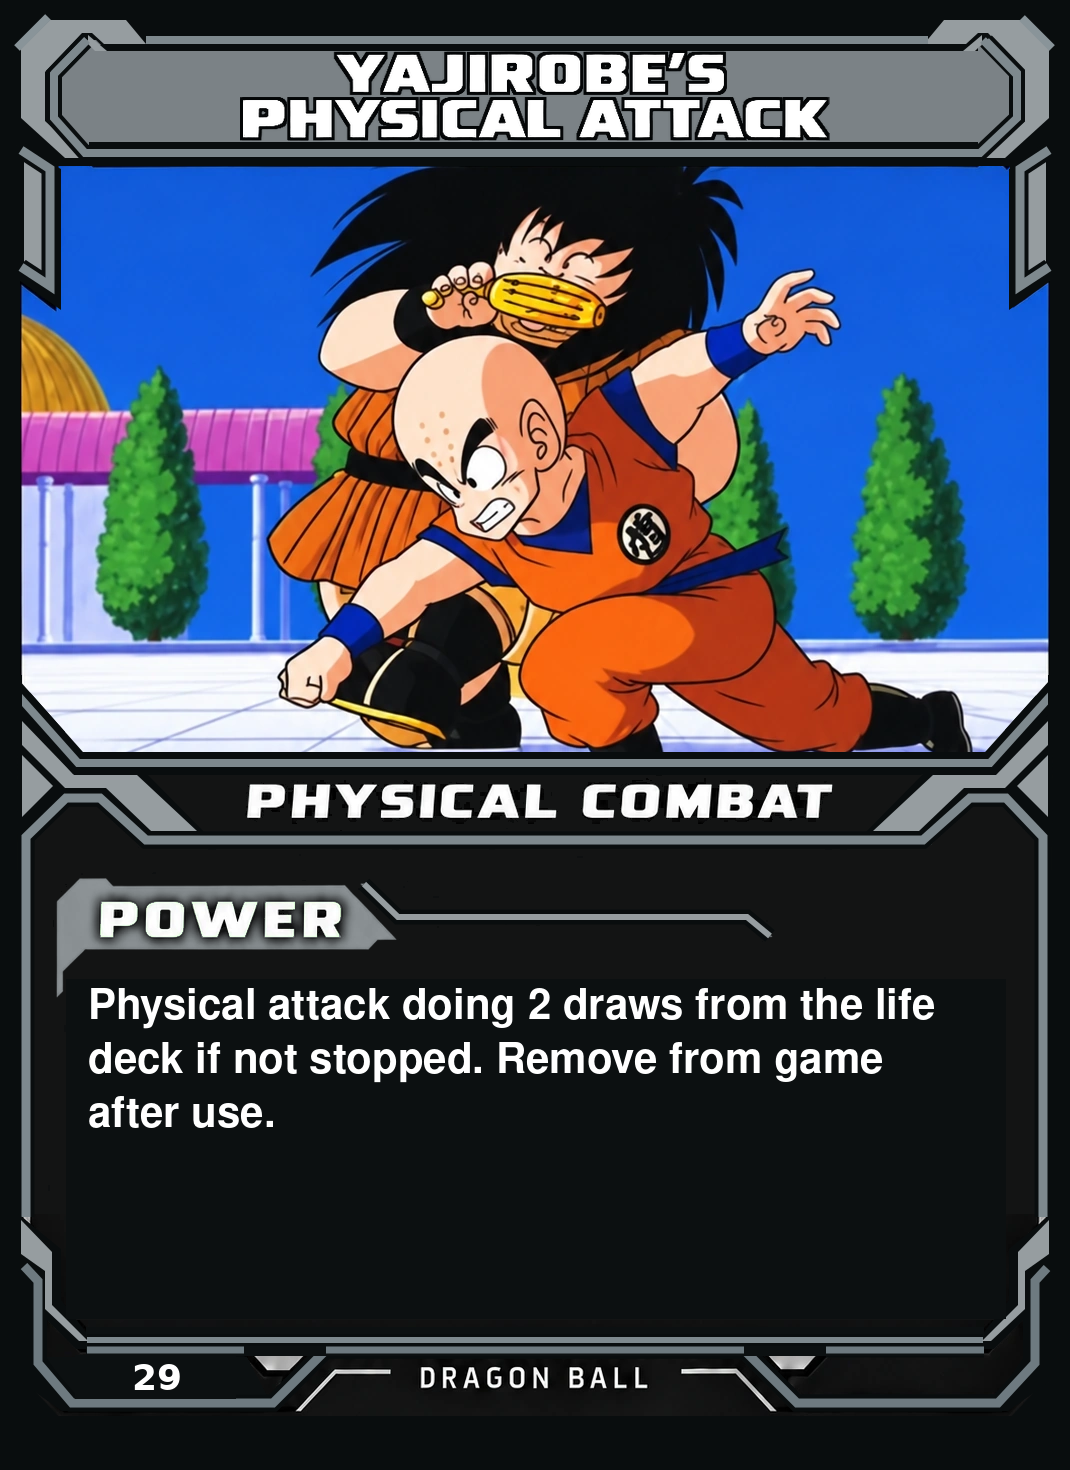
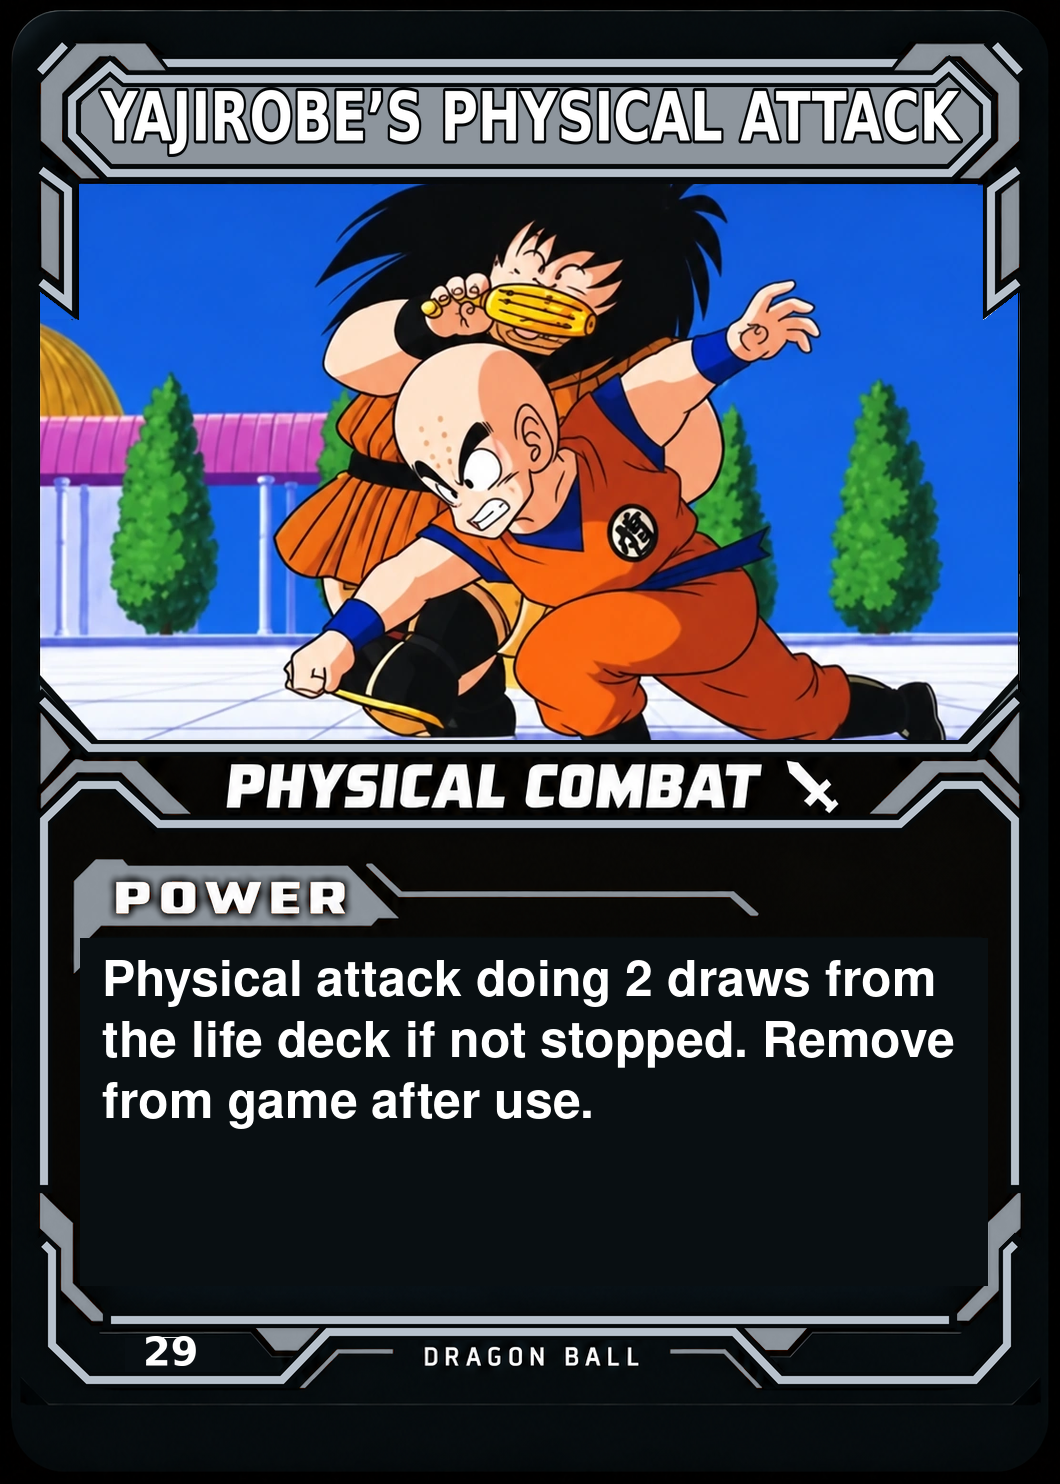
Publish approved judder-free design for Saiyan cards 21–30

diff --git a/public/cards/catalog.js b/public/cards/catalog.js
@@ -267,8 +267,10 @@ export const catalog = [
     "style": "Saiyan",
     "set": "Saiyan Saga",
     "status": "Ready",
-    "image": "/assets/cards/saiyan-021-saiyan-neck-hold.webp?v=f4d03f95da",
-    "source": "https://retrodbzccg.com/card-images/saiyan-saga-commons/"
+    "image": "/assets/cards/saiyan-021-saiyan-neck-hold.webp?v=18b919ae8d",
+    "source": "https://retrodbzccg.com/card-images/saiyan-saga-commons/",
+    "width": 1060,
+    "height": 1484
   },
   {
     "id": "saiyan-022-power-up",
@@ -278,8 +280,10 @@ export const catalog = [
     "style": "Freestyle",
     "set": "Saiyan Saga",
     "status": "Ready",
-    "image": "/assets/cards/saiyan-022-power-up.webp?v=969b06045f",
-    "source": "https://retrodbzccg.com/card-images/saiyan-saga-commons/"
+    "image": "/assets/cards/saiyan-022-power-up.webp?v=52e08a7c36",
+    "source": "https://retrodbzccg.com/card-images/saiyan-saga-commons/",
+    "width": 1060,
+    "height": 1484
   },
   {
     "id": "saiyan-023-burning-rage",
@@ -289,8 +293,10 @@ export const catalog = [
     "style": "Freestyle",
     "set": "Saiyan Saga",
     "status": "Ready",
-    "image": "/assets/cards/saiyan-023-burning-rage.webp?v=ce1ab0d779",
-    "source": "https://retrodbzccg.com/card-images/saiyan-saga-commons/"
+    "image": "/assets/cards/saiyan-023-burning-rage.webp?v=9ff6daa582",
+    "source": "https://retrodbzccg.com/card-images/saiyan-saga-commons/",
+    "width": 1060,
+    "height": 1484
   },
   {
     "id": "saiyan-024-gokus-surprise-attack",
@@ -300,8 +306,10 @@ export const catalog = [
     "style": "Freestyle",
     "set": "Saiyan Saga",
     "status": "Ready",
-    "image": "/assets/cards/saiyan-024-gokus-surprise-attack.webp?v=a47d97361b",
-    "source": "https://retrodbzccg.com/card-images/saiyan-saga-commons/"
+    "image": "/assets/cards/saiyan-024-gokus-surprise-attack.webp?v=77c410020f",
+    "source": "https://retrodbzccg.com/card-images/saiyan-saga-commons/",
+    "width": 1060,
+    "height": 1484
   },
   {
     "id": "saiyan-025-gokus-physical-attack",
@@ -311,8 +319,10 @@ export const catalog = [
     "style": "Freestyle",
     "set": "Saiyan Saga",
     "status": "Ready",
-    "image": "/assets/cards/saiyan-025-gokus-physical-attack.webp?v=9d23037840",
-    "source": "https://retrodbzccg.com/card-images/saiyan-saga-commons/"
+    "image": "/assets/cards/saiyan-025-gokus-physical-attack.webp?v=01f5532ec7",
+    "source": "https://retrodbzccg.com/card-images/saiyan-saga-commons/",
+    "width": 1060,
+    "height": 1484
   },
   {
     "id": "saiyan-026-gohans-physical-attack",
@@ -322,8 +332,10 @@ export const catalog = [
     "style": "Freestyle",
     "set": "Saiyan Saga",
     "status": "Ready",
-    "image": "/assets/cards/saiyan-026-gohans-physical-attack.webp?v=2580863f7e",
-    "source": "https://retrodbzccg.com/card-images/saiyan-saga-commons/"
+    "image": "/assets/cards/saiyan-026-gohans-physical-attack.webp?v=f2c8a9214a",
+    "source": "https://retrodbzccg.com/card-images/saiyan-saga-commons/",
+    "width": 1060,
+    "height": 1484
   },
   {
     "id": "saiyan-027-tiens-physical-attack",
@@ -333,8 +345,10 @@ export const catalog = [
     "style": "Freestyle",
     "set": "Saiyan Saga",
     "status": "Ready",
-    "image": "/assets/cards/saiyan-027-tiens-physical-attack.webp?v=ffac7b8040",
-    "source": "https://retrodbzccg.com/card-images/saiyan-saga-commons/"
+    "image": "/assets/cards/saiyan-027-tiens-physical-attack.webp?v=aec97c7b45",
+    "source": "https://retrodbzccg.com/card-images/saiyan-saga-commons/",
+    "width": 1060,
+    "height": 1484
   },
   {
     "id": "saiyan-028-vegetas-physical-stance",
@@ -344,8 +358,10 @@ export const catalog = [
     "style": "Freestyle",
     "set": "Saiyan Saga",
     "status": "Ready",
-    "image": "/assets/cards/saiyan-028-vegetas-physical-stance.webp?v=cef655d116",
-    "source": "https://retrodbzccg.com/card-images/saiyan-saga-commons/"
+    "image": "/assets/cards/saiyan-028-vegetas-physical-stance.webp?v=54f16c0db2",
+    "source": "https://retrodbzccg.com/card-images/saiyan-saga-commons/",
+    "width": 1060,
+    "height": 1484
   },
   {
     "id": "saiyan-029-yajirobes-physical-attack",
@@ -355,8 +371,10 @@ export const catalog = [
     "style": "Freestyle",
     "set": "Saiyan Saga",
     "status": "Ready",
-    "image": "/assets/cards/saiyan-029-yajirobes-physical-attack.webp?v=012db9740e",
-    "source": "https://retrodbzccg.com/card-images/saiyan-saga-commons/"
+    "image": "/assets/cards/saiyan-029-yajirobes-physical-attack.webp?v=e9e3067429",
+    "source": "https://retrodbzccg.com/card-images/saiyan-saga-commons/",
+    "width": 1060,
+    "height": 1484
   },
   {
     "id": "saiyan-030-fall-7-times-get-up-8-times",
@@ -366,8 +384,10 @@ export const catalog = [
     "style": "Freestyle",
     "set": "Saiyan Saga",
     "status": "Ready",
-    "image": "/assets/cards/saiyan-030-fall-7-times-get-up-8-times.webp?v=aa3b8233f7",
-    "source": "https://retrodbzccg.com/card-images/saiyan-saga-commons/"
+    "image": "/assets/cards/saiyan-030-fall-7-times-get-up-8-times.webp?v=c9eaa90162",
+    "source": "https://retrodbzccg.com/card-images/saiyan-saga-commons/",
+    "width": 1060,
+    "height": 1484
   },
   {
     "id": "saiyan-031-fortify-your-spirit",

diff --git a/public/cards/index.html b/public/cards/index.html
@@ -1,6 +1,6 @@
 <!doctype html><html lang="en"><head><meta charset="utf-8"><meta name="viewport" content="width=device-width,initial-scale=1"><meta name="theme-color" content="#130e0f"><title>Card Database · Dragon Ball Arena</title><link rel="stylesheet" href="/style.css"><link rel="stylesheet" href="/battle-theme.css"><link rel="stylesheet" href="/cards/cards.css"><script type="module" src="/cards/cards.js"></script><link rel="stylesheet" href="/navigation.css"><script type="module" src="/navigation.js"></script><link rel="icon" href="/favicon.ico" sizes="16x16 32x32 48x48"><link rel="icon" href="/favicon.svg" type="image/svg+xml" sizes="any"><link rel="apple-touch-icon" href="/apple-touch-icon.png"><link rel="stylesheet" href="/account/account.css"><script src="/account/nav.js" defer></script></head><body class="arena-page database-page">
 <header class="site-header"><a class="brand" href="/" aria-label="Dragon Ball Online home"><img class="brand-logo" src="/assets/dragon-ball-online-logo.webp" alt="Dragon Ball Online Card Game" width="2048" height="768"></a><button id="nav-toggle" type="button" aria-expanded="false" aria-controls="site-navigation" aria-label="Open navigation"><svg viewBox="0 0 24 24" fill="none" stroke="currentColor" stroke-width="1.8" stroke-linecap="round" aria-hidden="true"><path class="menu-open" d="M4 8h16M4 16h16"/><path class="menu-close" d="m6 6 12 12M6 18 18 6"/></svg></button><nav id="site-navigation" aria-label="Main navigation"><a href="/" aria-label="News"><img class="nav-wordmark nav-news" src="/assets/nav-news-smooth.webp" alt="" aria-hidden="true" width="676" height="200"></a><a href="/play/" aria-label="Arena"><img class="nav-wordmark nav-arena" src="/assets/nav-arena-smooth.webp" alt="" aria-hidden="true" width="789" height="200"></a><a href="/cards/" aria-label="Database" aria-current="page"><img class="nav-wordmark nav-database" src="/assets/nav-database-smooth.webp" alt="" aria-hidden="true" width="1124" height="200"></a><a href="/decks/" aria-label="Decks"><img class="nav-wordmark nav-decks" src="/assets/nav-decks-smooth.webp" alt="" aria-hidden="true" width="770" height="200"></a><a href="/forums/" aria-label="Forums"><img class="nav-wordmark nav-forums" src="/assets/nav-forums-smooth.webp" alt="" aria-hidden="true" width="1005" height="200"></a><a href="/rulebook/" aria-label="Rulebook"><img class="nav-wordmark nav-rulebook" src="/assets/nav-rulebook-smooth.webp" alt="" aria-hidden="true" width="1205" height="200"></a></nav></header>
-<main><section class="database-intro"><h1 class="page-wordmark"><img src="/assets/nav-database-smooth.webp" alt="Database" width="1124" height="200"></h1><div class="collection-progress"><span class="progress-mark" aria-hidden="true"></span><div><strong>Saiyan Saga</strong><p>Cards #1–20 now feature the updated card design.</p></div></div></section>
+<main><section class="database-intro"><h1 class="page-wordmark"><img src="/assets/nav-database-smooth.webp" alt="Database" width="1124" height="200"></h1><div class="collection-progress"><span class="progress-mark" aria-hidden="true"></span><div><strong>Saiyan Saga</strong><p>Cards #1–30 now feature the updated card design.</p></div></div></section>
 <form id="filters" class="filters" role="search"><label class="search-field">Find a card<input id="query" type="search" placeholder="Search by name or card number" autocomplete="off"></label><label>Collection<select id="set"><option value="">All collections</option></select></label><label>Card type<select id="type"><option value="">All types</option></select></label><label>Style<select id="style"><option value="">All styles</option></select></label><button id="clear" type="button">Reset</button></form>
 <div class="results-bar"><p id="results-count" role="status" aria-live="polite"></p><label>Sort<select id="sort"><option value="name">Name A–Z</option><option value="number">Card number</option></select></label></div><section id="card-grid" class="card-grid" aria-label="Cards"></section><p id="no-results" hidden>No cards match your filters. Try another name or reset the filters.</p></main>
 <dialog id="card-detail" aria-labelledby="detail-name"><button id="close-detail" type="button" aria-label="Close card details">Close <span aria-hidden="true">×</span></button><div class="detail-layout"><img id="detail-image" alt=""><div class="detail-info"><span id="detail-status" class="eyebrow"></span><h2 id="detail-name"></h2><dl id="detail-meta"></dl><a id="download" class="primary-link" download>Download WebP</a><p id="preview-note" class="fine" hidden>Design preview · awaiting approval for the Saiyan Saga set.</p></div></div></dialog><footer>Dragon Ball Arena · Unofficial fan project.</footer></body></html>

diff --git a/docs/saiyan-saga-upload-handoff.md b/docs/saiyan-saga-upload-handoff.md
@@ -1,8 +1,8 @@
 # Saiyan Saga continuation
 
-## Approved next batch: cards 11–20
+## Approved next batches: cards 11–30
 
-Cards 11–20 now use the approved 1060 × 1484 frame and judder-free SVG silver rails from cards 1–10, with blue, green, gray and gold accents. Dragon Ball labels have no sword; all Physical Combat cards share the approved sword and type strip. The immutable-source renderer `render-approved-range-011-030.py` fits existing artwork proportionally and uses the reviewed rules JSON with one 50px Nimbus Sans Bold body font. `saiyan-approved-vector-011-020.json` records exact assets and rules. User has explicitly authorized publishing cards 11–30 in this conversation; continue with 21–30 next, and stop after 30.
+Cards 11–30 now use the approved 1060 × 1484 frame and judder-free SVG silver rails from cards 1–10, with blue, green, gray and gold accents. Dragon Ball labels have no sword; all Physical Combat cards share the approved sword and type strip. The immutable-source renderer `render-approved-range-011-030.py` fits existing artwork proportionally and uses the reviewed rules JSON with one 50px Nimbus Sans Bold body font. `saiyan-approved-vector-011-020.json` and `saiyan-approved-vector-021-030.json` record exact assets and rules. User has explicitly authorized publishing cards 11–30 in this conversation; both ten-card batches are complete. Stop after 30; the next sequential card is 31.
 
 ## Latest approved test design: cards 1–10
 
